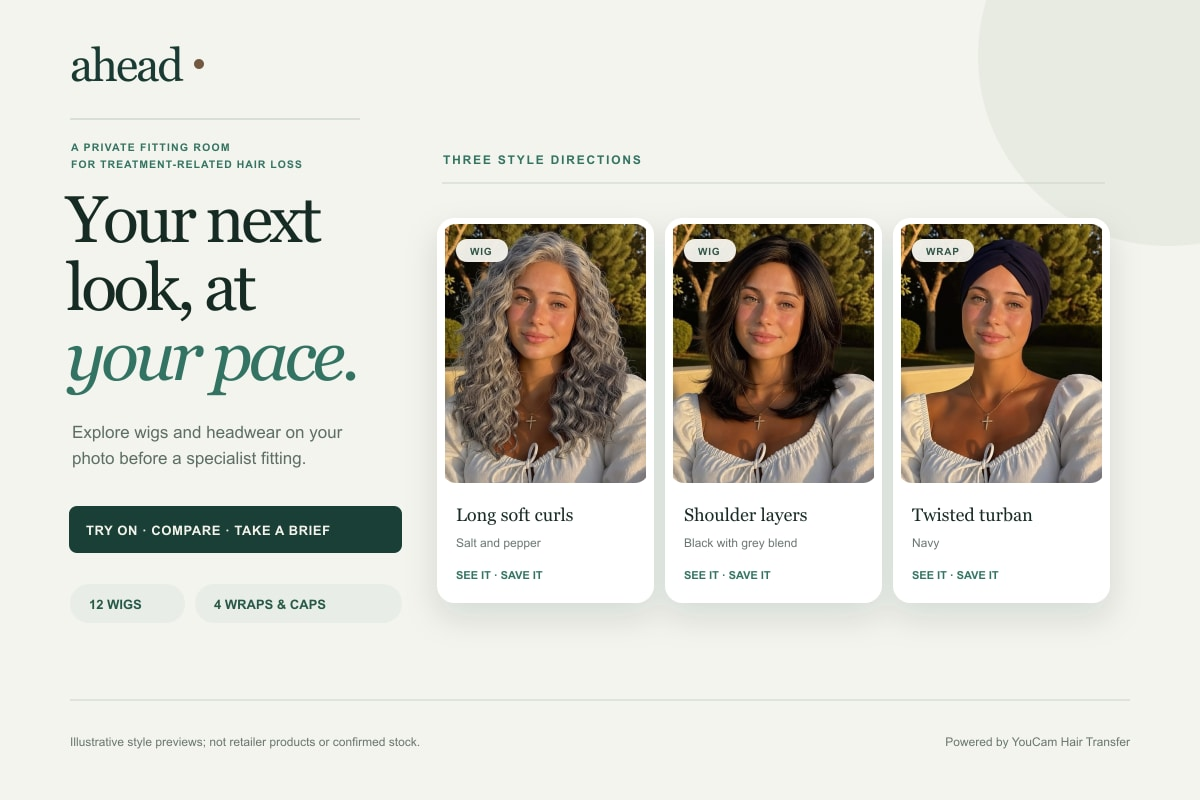
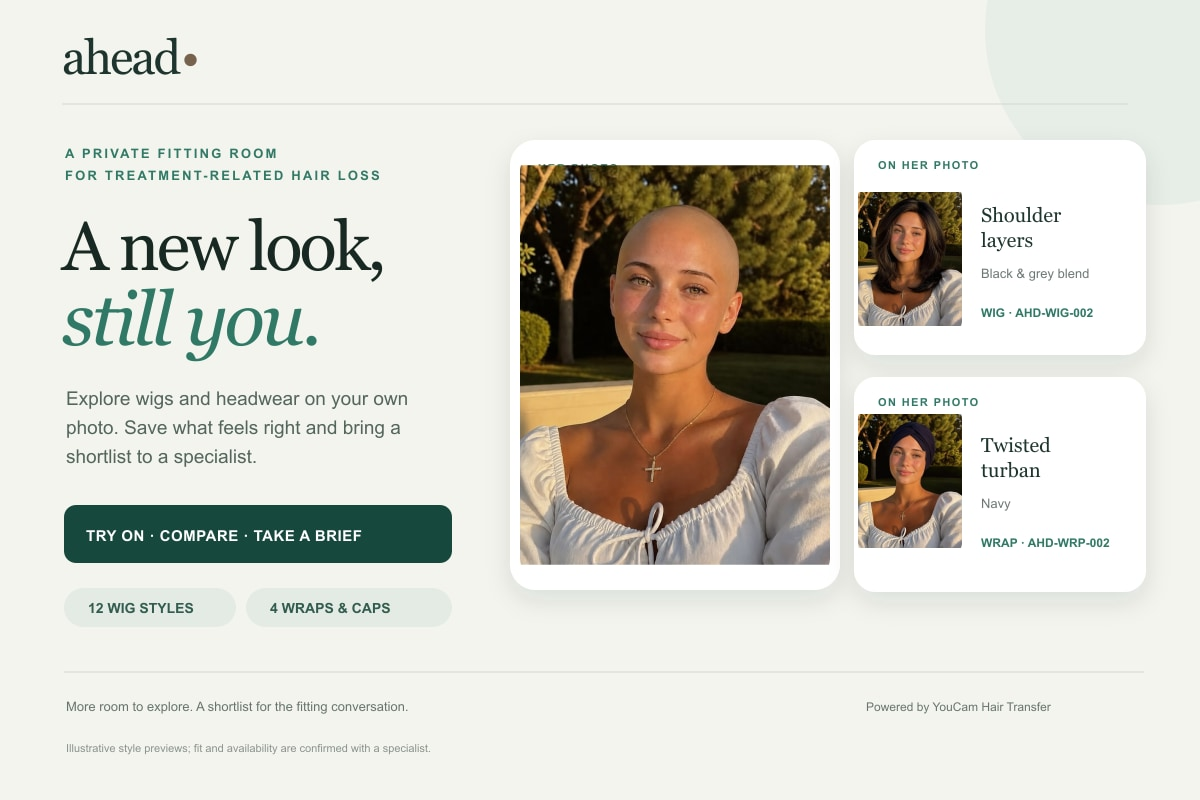
Make project imagery more personal and grounded

diff --git a/README.md b/README.md
@@ -14,9 +14,9 @@
   <img alt="Playwright" src="https://img.shields.io/badge/E2E-Playwright-2ead69?logo=playwright&logoColor=white" />
 </p>
 
-Ahead is a photo-first wig and headwear try-on for people navigating treatment-related hair loss. It makes space to explore a look privately before a fitting, then turns favourites into a practical conversation with a wig specialist.
+Ahead is a private wig and headwear fitting room for people navigating treatment-related hair loss. It lets someone explore options on their own photo, keep the looks that feel like them, and take a shortlist to a specialist.
 
-**The product promise:** see a style direction on yourself; take the details to someone who can help find the right real product.
+**The product promise:** more choice, more agency, and a more prepared fitting conversation. Ahead is designed to help people feel more confident exploring options, without pressuring them to choose.
 
 > Ahead is a shopping companion, not a medical tool or a retailer. Its catalogue is illustrative: it does not show verified products, prices, stock, or confirmed availability.
 
@@ -32,19 +32,19 @@ For an own-photo try-on, choose **Use your photo**, review the consent, upload a
 
 ## See Ahead
 
-The project gallery uses one consistent portrait throughout: the supplied demo portrait, styled with live YouCam Hair Transfer results. The first image is the real desktop fitting room with all 16 previews ready; the remaining images show distinct wig and headwear directions on the same person.
+The project gallery follows one person from her own photo to live YouCam previews. Ahead keeps her face central while she explores styles privately and decides what she wants to discuss at a fitting.
 
 ![Ahead fitting room showing four headwear previews on the supplied portrait](docs/images/live-fitting-room.jpg)
 
-| Long soft curls · salt and pepper | Shoulder layers · black with grey blend | Navy twisted turban |
-| --- | --- | --- |
-| ![Long soft curls preview on the supplied portrait](docs/images/try-on-long-curls.jpg) | ![Shoulder layers preview on the supplied portrait](docs/images/try-on-shoulder-layers.jpg) | ![Navy twisted turban preview on the supplied portrait](docs/images/try-on-navy-turban.jpg) |
+| Her starting photo | Shoulder layers · black with grey blend | Short pixie · salt and pepper | Navy twisted turban |
+| --- | --- | --- | --- |
+| ![Portrait used as the starting photo for Ahead's try-on demo](docs/images/ahead-demo-portrait.jpg) | ![YouCam shoulder layers preview on the same portrait](docs/images/try-on-shoulder-layers.jpg) | ![YouCam short pixie preview on the same portrait](docs/images/try-on-short-pixie.jpg) | ![YouCam navy turban preview on the same portrait](docs/images/try-on-navy-turban.jpg) |
 
 The [Devpost project thumbnail](docs/images/devpost-thumbnail.jpg) uses the same portrait and previews.
 
 ## Why we built it
 
-Choosing a wig during treatment-related hair loss can mean making a personal decision from product photos of someone else. Ahead gives people a private place to explore style and colour on their own photo, save the looks they prefer, and bring specific references to a specialist.
+Choosing a wig during treatment-related hair loss can mean making a personal decision from product photos of someone else. Ahead puts the person back into that decision: explore style and colour on your own photo, save the looks that feel right, and bring specific references to a specialist. A private preview cannot promise confidence, but it can give someone more room to explore before a fitting.
 
 The specialist remains central: the preview cannot tell someone whether a wig fits, feels comfortable, suits their scalp, or is available. Ahead helps make that first fitting conversation easier to start.
 
@@ -152,7 +152,7 @@ Never commit `.env.local` or place the API key in client code. `TESTER_CODE` can
 
 ## Image note
 
-The same supplied demo portrait appears across these example previews. Catalogue reference images are illustrative style references, not live retailer products or confirmed stock; the app communicates this once in its footer.
+The supplied demo portrait is the starting point for the featured YouCam previews. Catalogue reference images are illustrative style references, not live retailer products or confirmed stock; the app communicates this once in its footer.
 
 ## Licence
 
